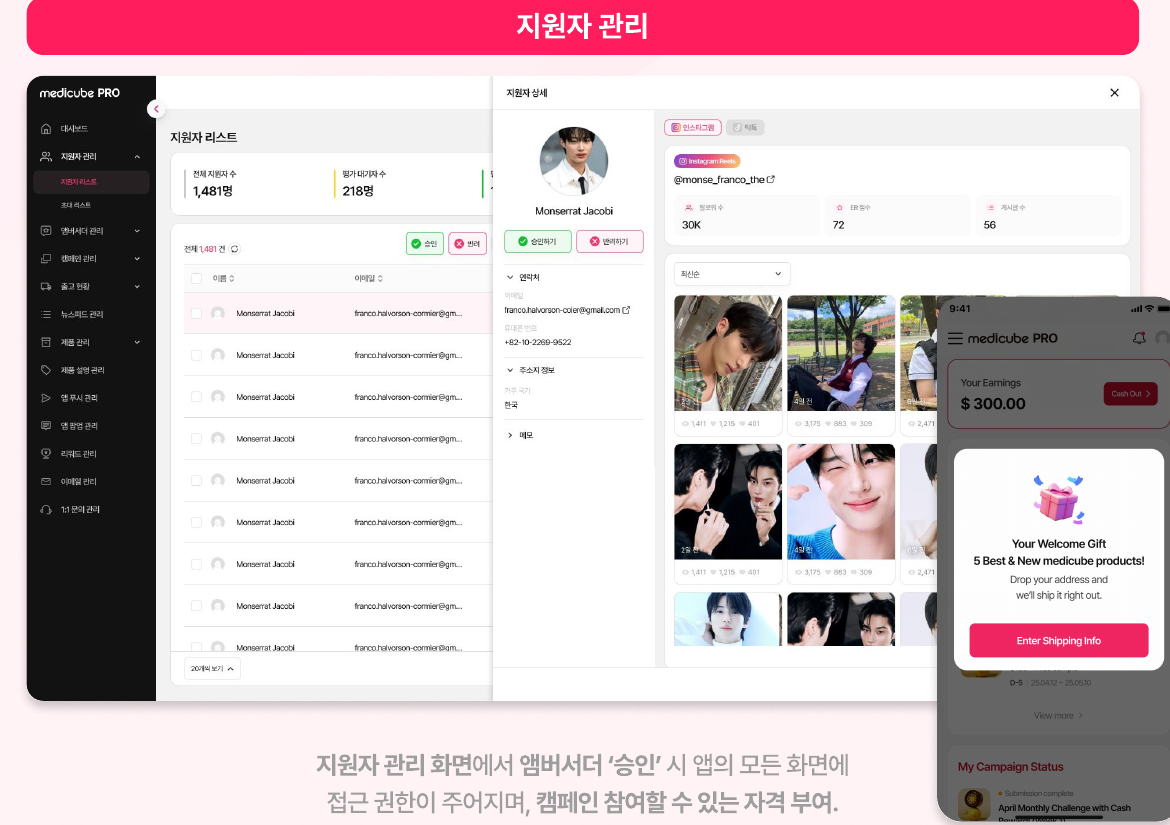
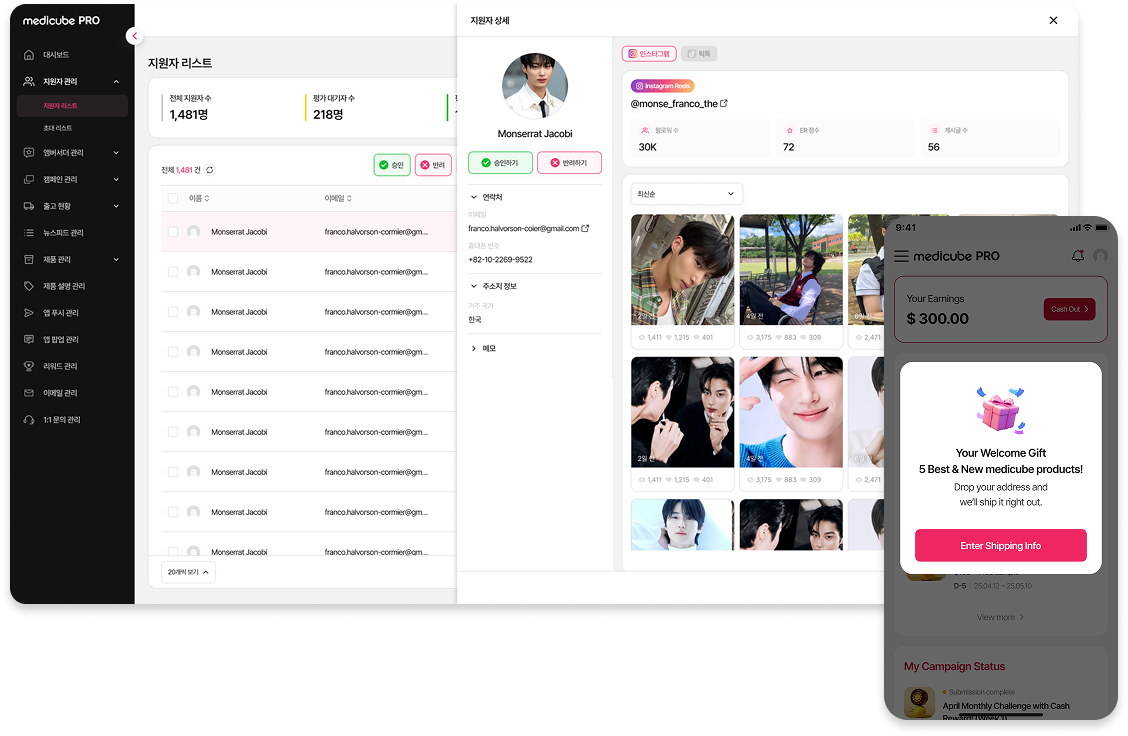
medicube PRO Output 섹션 전면 개편: 신규 캠페인 생성 4단계 플로우(리스트→기본정보→미션가이드→앱확인) 다이어그램 추가, 지원자·앰버서더 관리/캠페인 상세/콘텐츠 리뷰/성과 요약을 실제 스크린샷으로 교체. 디자인시스템 우측 이미지 페이드 처리 및 강조 배지 톤 조정. PHOTOGRAY 결과 섹션에 프레임 갤러리 우측 장식 이미지 추가. Olive Remote Care용 Notion 원본 이미지 사전 다운로드.
Claude-Session: https://claude.ai/code/session_0122gnyiLWGq3M4HFo7HuRu6

diff --git a/projects/medicube-pro.html b/projects/medicube-pro.html
@@ -134,17 +134,18 @@
     <div style="display:flex; gap:40px; flex-wrap:wrap; align-items:flex-start;">
       <div style="flex:1 1 280px; min-width:260px;">
         <p style="font-size:14px; color:var(--t2); line-height:1.8;">자사 브랜드인 'medicube' 글로벌의 브랜드 이미지 및 메인 컬러에 맞춰, Gray 스케일·Pink 메인 컬러·Pretendard 타이포그래피·Desktop 1920/1440px 그리드 규칙까지 색상 정의 및 UI 컴포넌트를 설계했습니다.</p>
-        <div style="display:flex; align-items:center; gap:14px; margin-top:20px; padding:16px 20px; border-radius:12px; background:#EF3A70; color:#fff; font-weight:700; font-size:14px;">
-          <span style="flex-shrink:0; width:26px; height:26px; border-radius:50%; background:rgba(255,255,255,.22); display:flex; align-items:center; justify-content:center; font-size:13px;">1</span>
-          신규 브랜드에 대한 메인 색상 정의 및 디자인 컴포넌트 정의
+        <div style="display:flex; align-items:center; gap:14px; margin-top:20px; padding:14px 18px; border-radius:12px; background:rgba(239,58,112,.08); border:1px solid rgba(239,58,112,.25);">
+          <span style="flex-shrink:0; width:24px; height:24px; border-radius:50%; background:rgba(239,58,112,.18); color:#F26B94; font-weight:800; display:flex; align-items:center; justify-content:center; font-size:12.5px;">1</span>
+          <span style="font-size:13.5px; color:var(--t1);">신규 브랜드에 대한 메인 색상 정의 및 디자인 컴포넌트 정의</span>
         </div>
-        <div style="display:flex; align-items:center; gap:14px; margin-top:12px; padding:16px 20px; border-radius:12px; background:#EF3A70; color:#fff; font-weight:700; font-size:14px;">
-          <span style="flex-shrink:0; width:26px; height:26px; border-radius:50%; background:rgba(255,255,255,.22); display:flex; align-items:center; justify-content:center; font-size:13px;">2</span>
-          기존 자사 브랜드 컨셉을 고려한 일관성 있는 비주얼 퀄리티 제공
+        <div style="display:flex; align-items:center; gap:14px; margin-top:10px; padding:14px 18px; border-radius:12px; background:rgba(239,58,112,.08); border:1px solid rgba(239,58,112,.25);">
+          <span style="flex-shrink:0; width:24px; height:24px; border-radius:50%; background:rgba(239,58,112,.18); color:#F26B94; font-weight:800; display:flex; align-items:center; justify-content:center; font-size:12.5px;">2</span>
+          <span style="font-size:13.5px; color:var(--t1);">기존 자사 브랜드 컨셉을 고려한 일관성 있는 비주얼 퀄리티 제공</span>
         </div>
       </div>
-      <div style="flex:1 1 400px; min-width:280px;">
-        <img src="../assets/images/appendix/medicube-pro/design-system.png" alt="medicube PRO 디자인시스템: Color/Typography, Grid, 필터 컴포넌트" style="width:100%; border-radius:12px; display:block; border:1px solid var(--border-strong);" loading="lazy" />
+      <div style="flex:1 1 400px; min-width:280px; position:relative; border-radius:12px; overflow:hidden;">
+        <img src="../assets/images/appendix/medicube-pro/design-system.png" alt="medicube PRO 디자인시스템: Color/Typography, Grid, 필터 컴포넌트" style="width:100%; display:block; border:1px solid var(--border-strong); border-radius:12px;" loading="lazy" />
+        <div style="position:absolute; inset:0; border-radius:12px; pointer-events:none; background:linear-gradient(to right, transparent 78%, var(--bg) 100%);"></div>
       </div>
     </div>
   </div>
@@ -156,32 +157,59 @@
     <h2>캠페인 생성부터 성과 요약까지, 한 화면 흐름으로</h2>
     <p>핵심 사용자인 '마케팅팀' 니즈에 맞춰 캠페인 유형별로 쉽고 빠르게 캠페인을 생성할 수 있도록 설계했고, 지원자 리스트를 쉽게 선정하고 콘텐츠 리뷰 및 성과까지 빠르게 확인할 수 있도록 디자인했습니다.</p>
 
-    <div class="card" style="margin-top:16px;">
-      <h3 style="margin-bottom:10px;">신규 캠페인 생성 · STEP1~2</h3>
-      <img src="../assets/images/appendix/medicube-pro/campaign-create-flow.png" alt="신규 캠페인 생성 STEP1 캠페인 기본 정보, STEP2 미션 참여 가이드" style="width:100%; border-radius:10px; display:block;" loading="lazy" />
+    <div class="onboard-flow-group" style="margin-top:16px;">
+      <div class="onboard-flow-label"><span class="step-badge">1</span>신규 캠페인 생성 · 리스트 → 기본정보 → 미션가이드 → 앱 확인</div>
+      <div class="onboard-flow">
+        <div class="onboard-flow-step" style="width:220px;">
+          <img src="../assets/images/appendix/medicube-pro/flow-1-list.png" alt="캠페인 리스트" loading="lazy" />
+          <p>캠페인 리스트</p>
+        </div>
+        <svg class="onboard-flow-arrow" viewBox="0 0 16 16" fill="none" xmlns="http://www.w3.org/2000/svg"><path d="M3 8h10M9 4l4 4-4 4" stroke="currentColor" stroke-width="1.6" stroke-linecap="round" stroke-linejoin="round"/></svg>
+        <div class="onboard-flow-step" style="width:150px;">
+          <img src="../assets/images/appendix/medicube-pro/flow-2-step1.png" alt="STEP1 캠페인 기본 정보" loading="lazy" />
+          <p>STEP1 · 기본 정보</p>
+        </div>
+        <svg class="onboard-flow-arrow" viewBox="0 0 16 16" fill="none" xmlns="http://www.w3.org/2000/svg"><path d="M3 8h10M9 4l4 4-4 4" stroke="currentColor" stroke-width="1.6" stroke-linecap="round" stroke-linejoin="round"/></svg>
+        <div class="onboard-flow-step" style="width:150px;">
+          <img src="../assets/images/appendix/medicube-pro/flow-3-step2.png" alt="STEP2 미션 참여 가이드" loading="lazy" />
+          <p>STEP2 · 미션 가이드</p>
+        </div>
+        <svg class="onboard-flow-arrow" viewBox="0 0 16 16" fill="none" xmlns="http://www.w3.org/2000/svg"><path d="M3 8h10M9 4l4 4-4 4" stroke="currentColor" stroke-width="1.6" stroke-linecap="round" stroke-linejoin="round"/></svg>
+        <div class="onboard-flow-step" style="width:110px;">
+          <img src="../assets/images/appendix/medicube-pro/flow-4-mobile.png" alt="앰버서더 앱에서 확인하는 캠페인 화면" loading="lazy" />
+          <p>앱에서 확인</p>
+        </div>
+      </div>
+      <p style="font-size:13px; margin-top:14px;">캠페인 유형(제품 체험형/콘텐츠 참여형)과 SNS 채널별로 리워드·해시태그·미션 기간을 설정하면, 앰버서더 앱에 바로 반영되는 구조로 설계했습니다.</p>
     </div>
 
-    <div class="card" style="margin-top:14px;">
+    <div class="card" style="margin-top:24px;">
       <h3 style="margin-bottom:10px;">지원자 관리</h3>
-      <img src="../assets/images/appendix/medicube-pro/applicant-mgmt.png" alt="지원자 관리 화면" style="width:100%; border-radius:10px; display:block;" loading="lazy" />
+      <img src="../assets/images/appendix/medicube-pro/applicant-mgmt.png" alt="지원자 관리 화면" style="width:100%; border-radius:10px; display:block; background:#fff; padding:6px;" loading="lazy" />
       <p style="font-size:12px; color:var(--t3); margin-top:10px;">지원자 관리 화면에서 앰버서더 '승인' 시 앱의 모든 화면에 접근 권한이 주어지며, 캠페인에 참여할 수 있는 자격이 부여됩니다.</p>
     </div>
 
     <div class="card" style="margin-top:14px;">
       <h3 style="margin-bottom:10px;">앰버서더 관리</h3>
-      <img src="../assets/images/appendix/medicube-pro/ambassador-mgmt.png" alt="앰버서더 관리 화면" style="width:100%; border-radius:10px; display:block;" loading="lazy" />
+      <img src="../assets/images/appendix/medicube-pro/ambassador-mgmt.png" alt="앰버서더 관리 화면" style="width:100%; border-radius:10px; display:block; background:#fff; padding:6px;" loading="lazy" />
       <p style="font-size:12px; color:var(--t3); margin-top:10px;">승인된 지원자는 앰버서더 관리 화면에서 기본 정보를 확인할 수 있으며, 캠페인 참여 이력 및 제품 발송 내역 등 기타 히스토리를 확인할 수 있습니다.</p>
     </div>
 
     <div class="card" style="margin-top:14px;">
+      <h3 style="margin-bottom:10px;">캠페인 상세 · 지원자 선정</h3>
+      <img src="../assets/images/appendix/medicube-pro/campaign-detail.png" alt="캠페인 상세 화면, 지원자 리스트에서 캠페인 참여 대상 선정" style="width:100%; border-radius:10px; display:block; background:#fff; padding:6px;" loading="lazy" />
+      <p style="font-size:12px; color:var(--t3); margin-top:10px;">캠페인별 지원자 리스트에서 참여 대상을 직접 선정할 수 있고, 선정 후에는 번복이 불가능함을 명확히 안내해 실수를 방지했습니다.</p>
+    </div>
+
+    <div class="card" style="margin-top:14px;">
       <h3 style="margin-bottom:10px;">콘텐츠 리뷰</h3>
-      <img src="../assets/images/appendix/medicube-pro/content-review.png" alt="업로드된 콘텐츠를 그리드로 확인하고 개별 승인·반려 처리하는 화면" style="width:100%; border-radius:10px; display:block;" loading="lazy" />
+      <img src="../assets/images/appendix/medicube-pro/content-review.png" alt="업로드된 콘텐츠를 그리드로 확인하고 개별 승인·반려 처리하는 화면" style="width:100%; border-radius:10px; display:block; background:#fff; padding:6px;" loading="lazy" />
       <p style="font-size:12px; color:var(--t3); margin-top:10px;">앰버서더가 제출한 콘텐츠를 그리드에서 한눈에 확인하고, 개별 항목을 승인·반려 처리할 수 있게 설계했습니다.</p>
     </div>
 
     <div class="card" style="margin-top:14px;">
       <h3 style="margin-bottom:10px;">성과 요약</h3>
-      <img src="../assets/images/appendix/medicube-pro/performance-summary.png" alt="캠페인 성과 요약 화면, 조회수 2,515,151 좋아요 44,781 댓글수 9,183" style="width:100%; border-radius:10px; display:block;" loading="lazy" />
+      <img src="../assets/images/appendix/medicube-pro/performance-summary.png" alt="캠페인 성과 요약 화면, 조회수 2,515,151 좋아요 44,781 댓글수 9,183" style="width:100%; border-radius:10px; display:block; background:#fff; padding:6px;" loading="lazy" />
       <p style="font-size:12px; color:var(--t3); margin-top:10px;">조회수·좋아요·댓글 등 핵심 지표를 캠페인 단위로 집계하고, 인플루언서별 상세 성과까지 한 화면에서 확인할 수 있게 설계했습니다.</p>
     </div>
   </div>

diff --git a/projects/photogray.html b/projects/photogray.html
@@ -236,20 +236,21 @@
   </div>
 </section>
 
-<section class="block">
-  <div class="container">
+<section class="block" style="position:relative; overflow:hidden;">
+  <div class="container" style="position:relative; z-index:1;">
     <span class="eyebrow">결과</span>
     <h2>운영 리드타임과 리소스 모두 절감</h2>
-    <div class="stat-row">
+    <div class="stat-row" style="max-width:600px;">
       <div class="stat"><div class="num accent">5일+</div><div class="label">작업 기간 단축</div></div>
       <div class="stat"><div class="num accent">최소 12단계</div><div class="label">표준화, 전국 부스 배포 가능</div></div>
       <div class="stat"><div class="num accent">비용 절감</div><div class="label">인적 리소스 투입 감소</div></div>
     </div>
-    <div class="callout">
+    <div class="callout" style="max-width:600px;">
       <strong>학습</strong>: <span class="hl">핵심 사업(포토부스 운영)의 속도를 올리는 건 새로운 기능이 아니라, 반복되는 수작업을 걷어내는 어드민</span>이라는 걸
       확인한 프로젝트였습니다.
     </div>
   </div>
+  <img class="result-frame-deco" src="../assets/images/appendix/photogray/frame-gallery-tall.png" alt="" aria-hidden="true" loading="lazy" />
 </section>
 
 <footer class="site-footer">© 2026 최지원. Product Designer Portfolio.</footer>

diff --git a/assets/css/site.css b/assets/css/site.css
@@ -288,6 +288,17 @@ section.block.tight { padding: 44px 0; }
 .verdict-row .res-badge { margin-top: 1px; flex-shrink: 0; }
 .verdict-row span:last-child { font-size: 14px; color: var(--t2); line-height: 1.6; flex: 1 1 240px; }
 
+/* ── 결과 섹션 우측 장식 이미지 ── */
+.result-frame-deco {
+  display: none; position: absolute; top: 0; right: -40px; height: 100%; width: auto; max-width: 340px;
+  object-fit: cover; pointer-events: none;
+  -webkit-mask-image: linear-gradient(to bottom, transparent 0%, #000 14%, #000 86%, transparent 100%), linear-gradient(to right, transparent 0%, #000 35%);
+  -webkit-mask-composite: source-in;
+          mask-image: linear-gradient(to bottom, transparent 0%, #000 14%, #000 86%, transparent 100%), linear-gradient(to right, transparent 0%, #000 35%);
+          mask-composite: intersect;
+}
+@media (min-width: 1100px) { .result-frame-deco { display: block; } }
+
 /* ── 지표: 서사형(문장 안에 녹임) ── */
 .stat-row {
   display: flex; flex-wrap: wrap;
